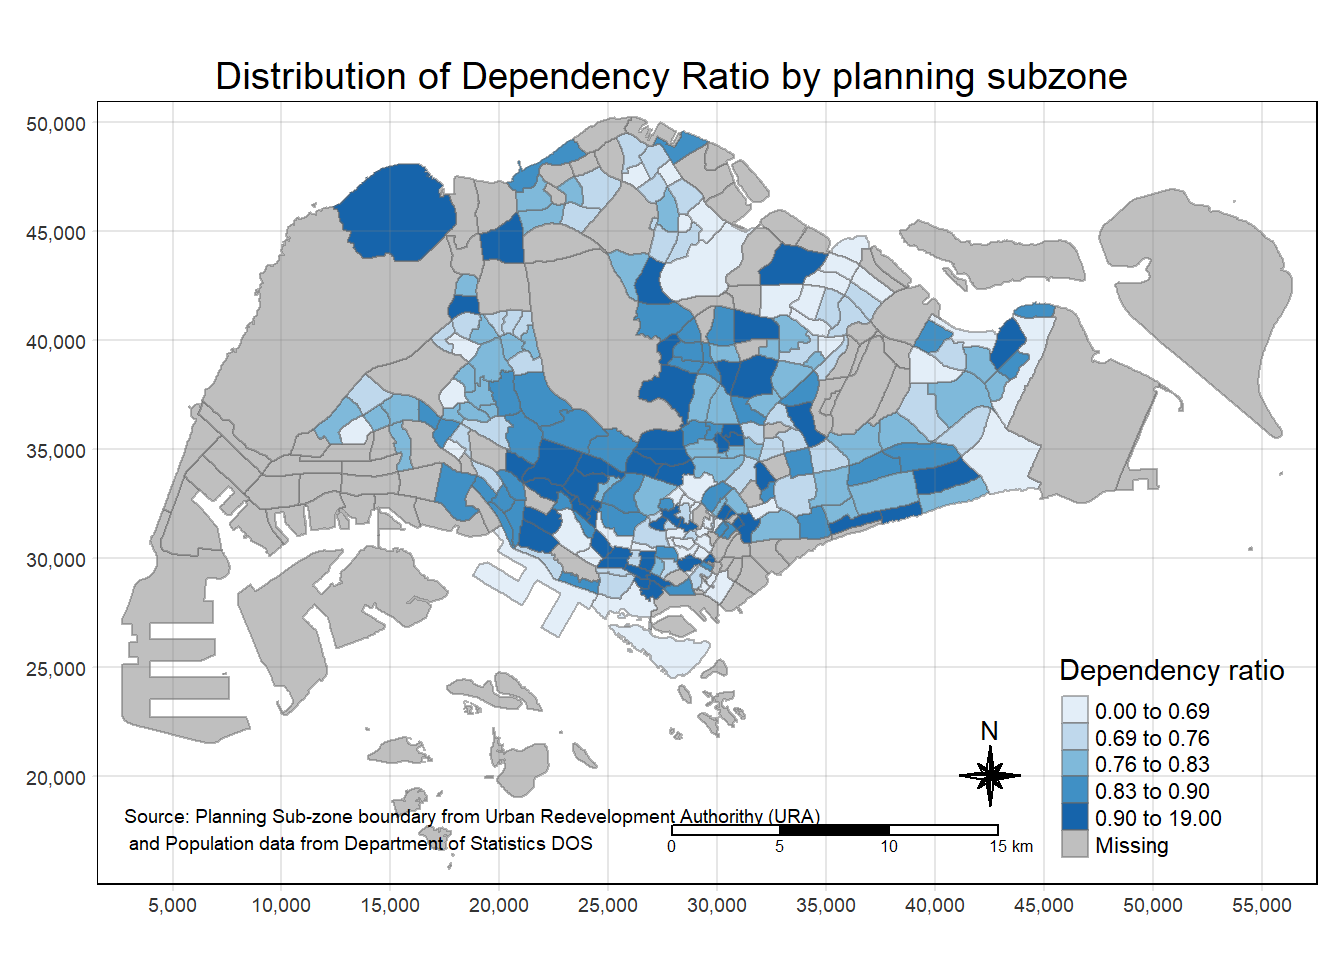
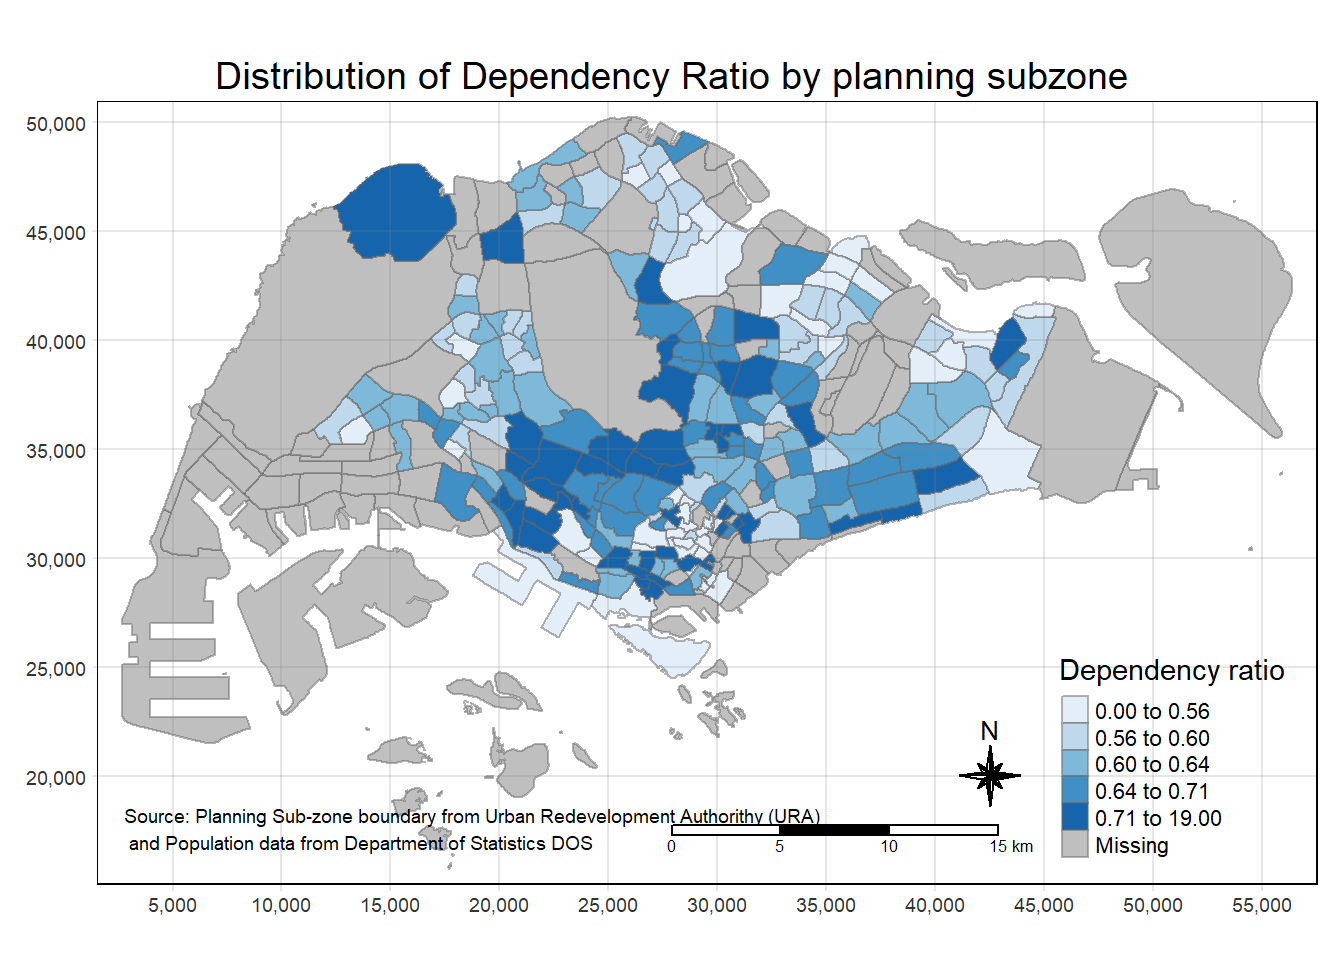
Revised hands_on_ex2

diff --git a/_site/Hands_On_Ex/Hands_On_Ex2/hands_on_ex2.html b/_site/Hands_On_Ex/Hands_On_Ex2/hands_on_ex2.html
@@ -171,7 +171,13 @@ pre > code.sourceCode > span > a:first-child::before { text-decoration: underlin
 <!-- sidebar -->
 <!-- margin-sidebar -->
     <div id="quarto-margin-sidebar" class="sidebar margin-sidebar">
-        
+        <nav id="TOC" role="doc-toc" class="toc-active">
+    <h2 id="toc-title">On this page</h2>
+   
+  <ul>
+  <li><a href="#data-preparation" id="toc-data-preparation" class="nav-link active" data-scroll-target="#data-preparation"><strong>2.3.4 Data Preparation</strong></a></li>
+  </ul>
+</nav>
     </div>
 <!-- main -->
 <main class="content" id="quarto-document-content">
@@ -276,9 +282,9 @@ dbl (2): Pop, Time
 <span id="cb7-6"><a href="#cb7-6" aria-hidden="true" tabindex="-1"></a>  <span class="fu">pivot_wider</span>(<span class="at">names_from=</span>AG, </span>
 <span id="cb7-7"><a href="#cb7-7" aria-hidden="true" tabindex="-1"></a>              <span class="at">values_from=</span>POP) <span class="sc">%&gt;%</span></span>
 <span id="cb7-8"><a href="#cb7-8" aria-hidden="true" tabindex="-1"></a>  <span class="fu">mutate</span>(<span class="at">YOUNG =</span> <span class="fu">rowSums</span>(.[<span class="dv">3</span><span class="sc">:</span><span class="dv">6</span>])</span>
-<span id="cb7-9"><a href="#cb7-9" aria-hidden="true" tabindex="-1"></a>         <span class="sc">+</span><span class="fu">rowSums</span>(.[<span class="dv">12</span>])) <span class="sc">%&gt;%</span></span>
-<span id="cb7-10"><a href="#cb7-10" aria-hidden="true" tabindex="-1"></a>  <span class="fu">mutate</span>(<span class="st">`</span><span class="at">ECONOMY ACTIVE</span><span class="st">`</span> <span class="ot">=</span> <span class="fu">rowSums</span>(.[<span class="dv">7</span><span class="sc">:</span><span class="dv">11</span>])<span class="sc">+</span></span>
-<span id="cb7-11"><a href="#cb7-11" aria-hidden="true" tabindex="-1"></a>           <span class="fu">rowSums</span>(.[<span class="dv">13</span><span class="sc">:</span><span class="dv">15</span>]))<span class="sc">%&gt;%</span></span>
+<span id="cb7-9"><a href="#cb7-9" aria-hidden="true" tabindex="-1"></a>         ) <span class="sc">%&gt;%</span></span>
+<span id="cb7-10"><a href="#cb7-10" aria-hidden="true" tabindex="-1"></a>  <span class="fu">mutate</span>(<span class="st">`</span><span class="at">ECONOMY ACTIVE</span><span class="st">`</span> <span class="ot">=</span> <span class="fu">rowSums</span>(.[<span class="dv">7</span><span class="sc">:</span><span class="dv">13</span>])<span class="sc">+</span></span>
+<span id="cb7-11"><a href="#cb7-11" aria-hidden="true" tabindex="-1"></a>           <span class="fu">rowSums</span>(.[<span class="dv">15</span>]))<span class="sc">%&gt;%</span></span>
 <span id="cb7-12"><a href="#cb7-12" aria-hidden="true" tabindex="-1"></a>  <span class="fu">mutate</span>(<span class="st">`</span><span class="at">AGED</span><span class="st">`</span><span class="ot">=</span><span class="fu">rowSums</span>(.[<span class="dv">16</span><span class="sc">:</span><span class="dv">21</span>])) <span class="sc">%&gt;%</span></span>
 <span id="cb7-13"><a href="#cb7-13" aria-hidden="true" tabindex="-1"></a>  <span class="fu">mutate</span>(<span class="st">`</span><span class="at">TOTAL</span><span class="st">`</span><span class="ot">=</span><span class="fu">rowSums</span>(.[<span class="dv">3</span><span class="sc">:</span><span class="dv">21</span>])) <span class="sc">%&gt;%</span>  </span>
 <span id="cb7-14"><a href="#cb7-14" aria-hidden="true" tabindex="-1"></a>  <span class="fu">mutate</span>(<span class="st">`</span><span class="at">DEPENDENCY</span><span class="st">`</span> <span class="ot">=</span> (<span class="st">`</span><span class="at">YOUNG</span><span class="st">`</span> <span class="sc">+</span> <span class="st">`</span><span class="at">AGED</span><span class="st">`</span>)</span>
@@ -403,7 +409,7 @@ dbl (2): Pop, Time
 <div class="sourceCode cell-code" id="cb19"><pre class="sourceCode r code-with-copy"><code class="sourceCode r"><span id="cb19-1"><a href="#cb19-1" aria-hidden="true" tabindex="-1"></a><span class="fu">summary</span>(mpsz_pop2020<span class="sc">$</span>DEPENDENCY)</span></code><button title="Copy to Clipboard" class="code-copy-button"><i class="bi"></i></button></pre></div>
 <div class="cell-output cell-output-stdout">
 <pre><code>   Min. 1st Qu.  Median    Mean 3rd Qu.    Max.    NA's 
- 0.0000  0.7113  0.7926  0.8561  0.8786 19.0000      92 </code></pre>
+ 0.0000  0.5696  0.6154  0.6917  0.6950 19.0000      92 </code></pre>
 </div>
 <div class="sourceCode cell-code" id="cb21"><pre class="sourceCode r code-with-copy"><code class="sourceCode r"><span id="cb21-1"><a href="#cb21-1" aria-hidden="true" tabindex="-1"></a><span class="fu">tm_shape</span>(mpsz_pop2020)<span class="sc">+</span></span>
 <span id="cb21-2"><a href="#cb21-2" aria-hidden="true" tabindex="-1"></a>  <span class="fu">tm_fill</span>(<span class="st">"DEPENDENCY"</span>,</span>
@@ -610,6 +616,43 @@ Please use legend.outside.size to control the width of the outside legend</code>
 </div>
 </div>
 </div>
+<section id="data-preparation" class="level3">
+<h3 class="anchored" data-anchor-id="data-preparation"><strong>2.3.4 Data Preparation</strong></h3>
+<p>Before a thematic map can be prepared, you are required to prepare a data table with year 2020 values. The data table should include the variables PA, SZ, YOUNG, ECONOMY ACTIVE, AGED, TOTAL, DEPENDENCY.</p>
+<ul>
+<li><p>YOUNG: age group 0 to 4 until age groyup 20 to 24,</p></li>
+<li><p>ECONOMY ACTIVE: age group 25-29 until age group 60-64,</p></li>
+<li><p>AGED: age group 65 and above,</p></li>
+<li><p>TOTAL: all age group, and</p></li>
+<li><p>DEPENDENCY: the ratio between young and aged against economy active group</p></li>
+</ul>
+<p>The original code is</p>
+<p><code>r``library(dplyr)</code></p>
+<p><code>library(tidyr)</code></p>
+<p><code>popdata2020 &lt;- popdata %&gt;%</code></p>
+<p><code>filter(Time == 2020) %&gt;%</code></p>
+<p><code>group_by(PA, SZ, AG) %&gt;%</code></p>
+<p><code>summarise(`POP` = sum(`Pop`)) %&gt;%</code></p>
+<p><code>ungroup()%&gt;%</code></p>
+<p><code>pivot_wider(names_from=AG,</code></p>
+<p><code>values_from=POP) %&gt;%</code></p>
+<p><code>mutate(YOUNG = rowSums(.[3:6])</code></p>
+<p><code>+rowSums(.[12])) %&gt;%</code></p>
+<p><code>mutate(`ECONOMY ACTIVE` = rowSums(.[7:11])+</code></p>
+<p><code>rowSums(.[13:15]))%&gt;%</code></p>
+<p><code>mutate(`AGED`=rowSums(.[16:21])) %&gt;%</code></p>
+<p><code>mutate(`TOTAL`=rowSums(.[3:21])) %&gt;%</code></p>
+<p><code>mutate(`DEPENDENCY` = (`YOUNG` + `AGED`)</code></p>
+<p><code>/`ECONOMY ACTIVE`) %&gt;%</code></p>
+<p><code>select(`PA`, `SZ`, `YOUNG`,</code></p>
+<p><code>`ECONOMY ACTIVE`, `AGED`,</code></p>
+<p><code>`TOTAL`, `DEPENDENCY`)</code></p>
+<p>The following take in data for young FROM 0-24 and 50 to 54 which is wrong as rowSums(.[12]) is the age group 50 to 54.</p>
+<p>Therefore the amended code should be</p>
+<p><strong>mutate(YOUNG = rowSums(.[3:6]))</strong></p>
+<p>Furthermore, the orignial code takes in ECONOMY ACTIVE takes in 24-49 and skip 50-54 and takes in 5_to_9 instead which is wrong as ECONOMY ACTIVE 25 to 64</p>
+<p>Therefore the amended code is</p>
+<p><strong>mutate(<code>ECONOMY ACTIVE</code> = rowSums(.[7:13])+ rowSums(.[15]))</strong></p>
 <p>Preparing choropleth maps by using similar classification method but with different numbers of classes (i.e.&nbsp;2, 6, 10, 20). Compare the output maps, what observation can you draw?<br>
 <br>
 When preparing choropleth maps with different numbers of classes (e.g., 2, 6, 10, 20), you are essentially altering the granularity of the information presented.</p>
@@ -633,6 +676,7 @@ When preparing choropleth maps with different numbers of classes (e.g., 2, 6, 10
 </ol>
 
 
+</section>
 
 </main> <!-- /main -->
 <script id="quarto-html-after-body" type="application/javascript">
